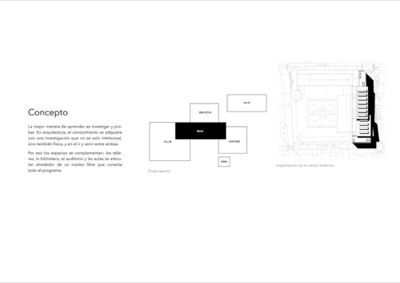
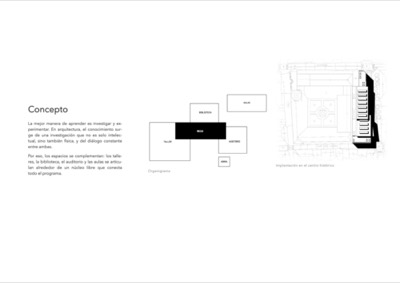
Facultad de Arquitectura: gramática y redacción corregidas en las láminas de análisis y los pies de foto

Changed region(s): [[0.06, 0.3675, 0.33, 0.6219]]

diff --git a/src/proyectos.js b/src/proyectos.js
@@ -245,8 +245,8 @@ export const disenos = [
       'Análisis: núcleo central y aulas',
       'Análisis: estructura y articulación',
       'Planta nivel 0,00: exposición, cafetería, aulas y administración',
-      'Plantas nivel +3,00 y +6,00: biblioteca, zona de estudio, aulas y aulas magistrales',
-      'Plantas nivel +10,50 y +14,00 (talleres y aulas) y nivel −3,00 (auditorio y foyer)',
+      'Plantas de los niveles +3,00 y +6,00: biblioteca, zona de estudio, aulas y aulas magistrales',
+      'Plantas de los niveles +10,50 y +14,00 (talleres y aulas) y −3,00 (auditorio y vestíbulo)',
       'Sección',
     ]),
   },
